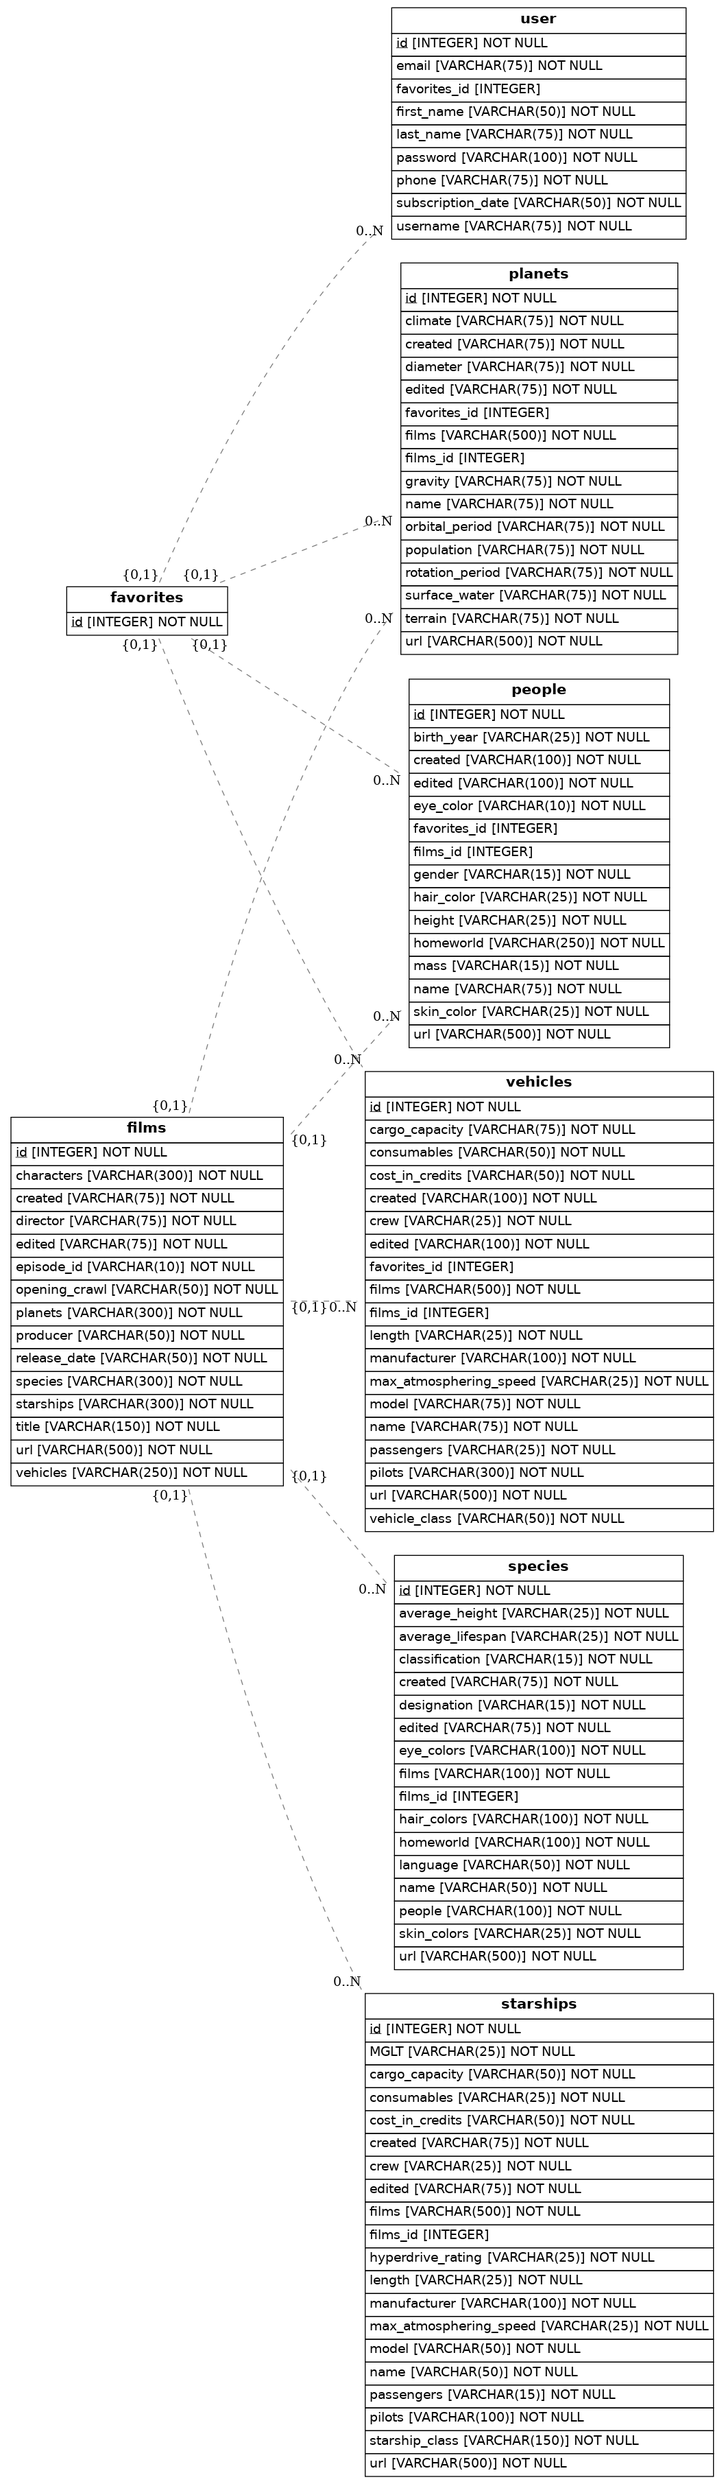
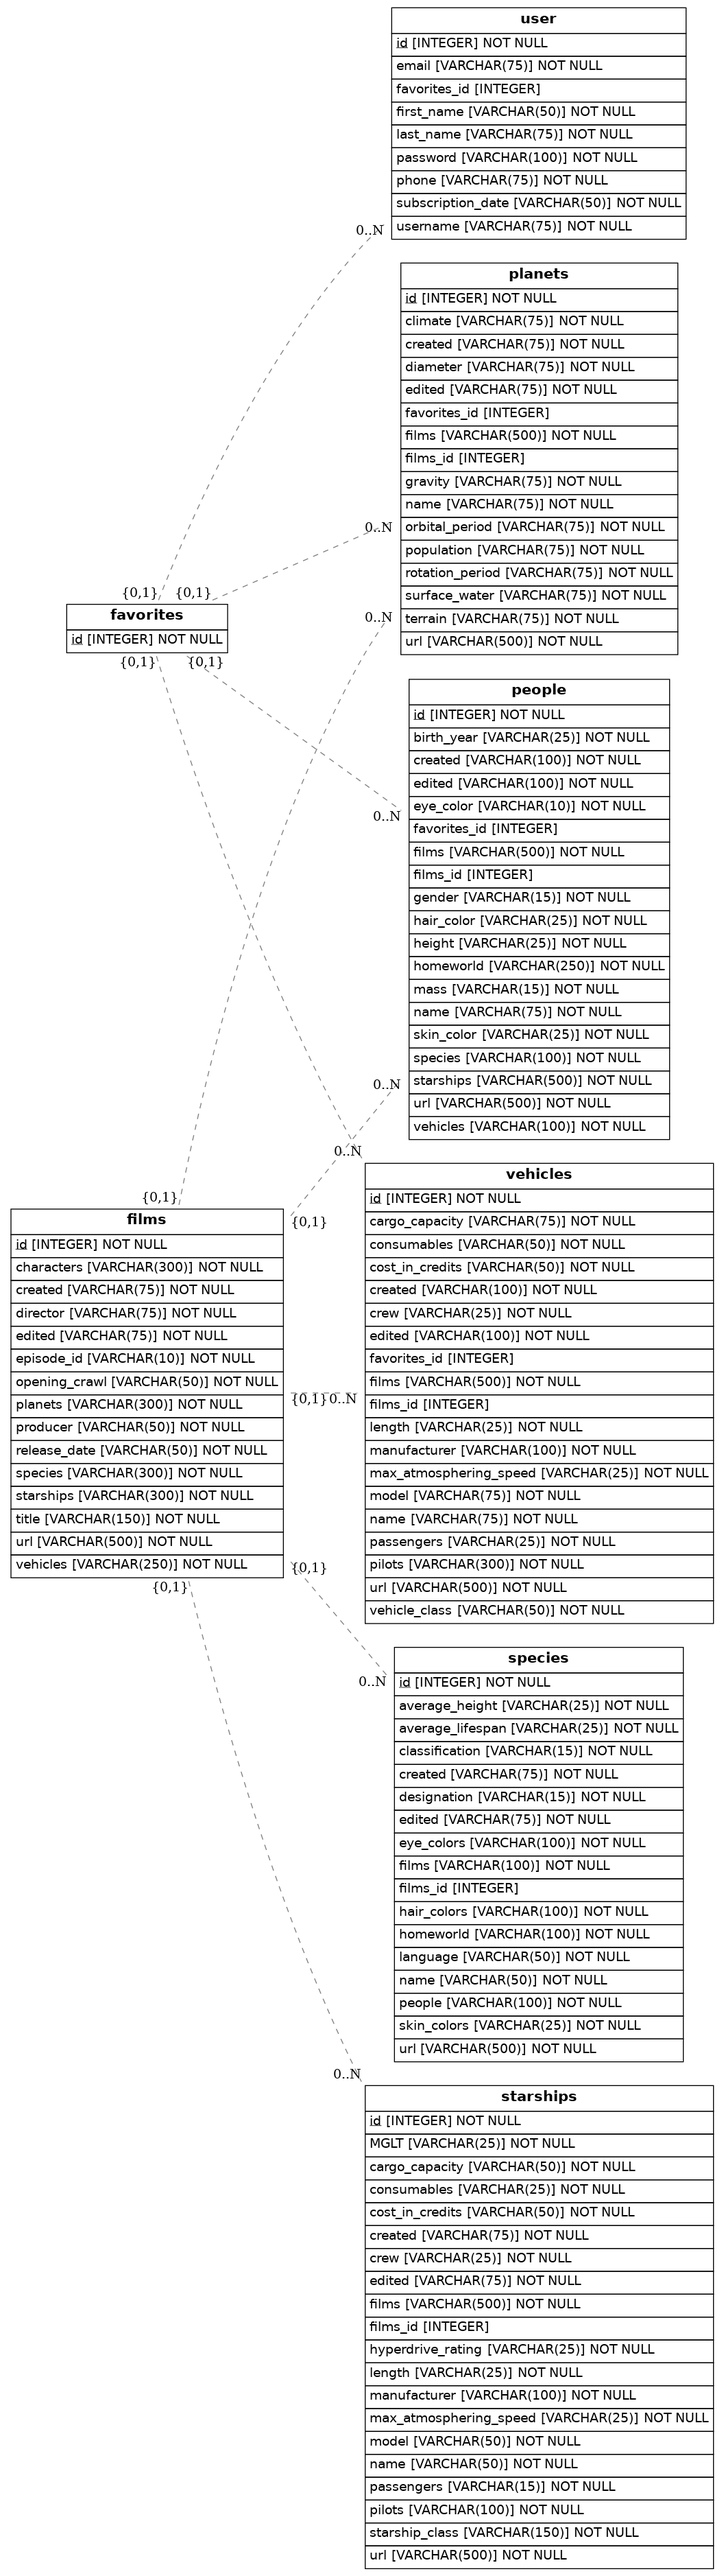
People Changes

diff --git a/src/models.py b/src/models.py
@@ -40,10 +40,10 @@ class People(Base):
     created = Column(String(100), nullable=False) 
     edited = Column(String(100), nullable=False) 
     url = Column(String(500), nullable=False)
-    films = []
-    species = []
-    starships = []
-    vehicles = []
+    films = Column(String(500), nullable=False)
+    species = Column(String(100), nullable=False)
+    starships = Column(String(500), nullable=False)
+    vehicles = Column(String(100), nullable=False)
 
 class Vehicles(Base):
     __tablename__ = 'vehicles'
